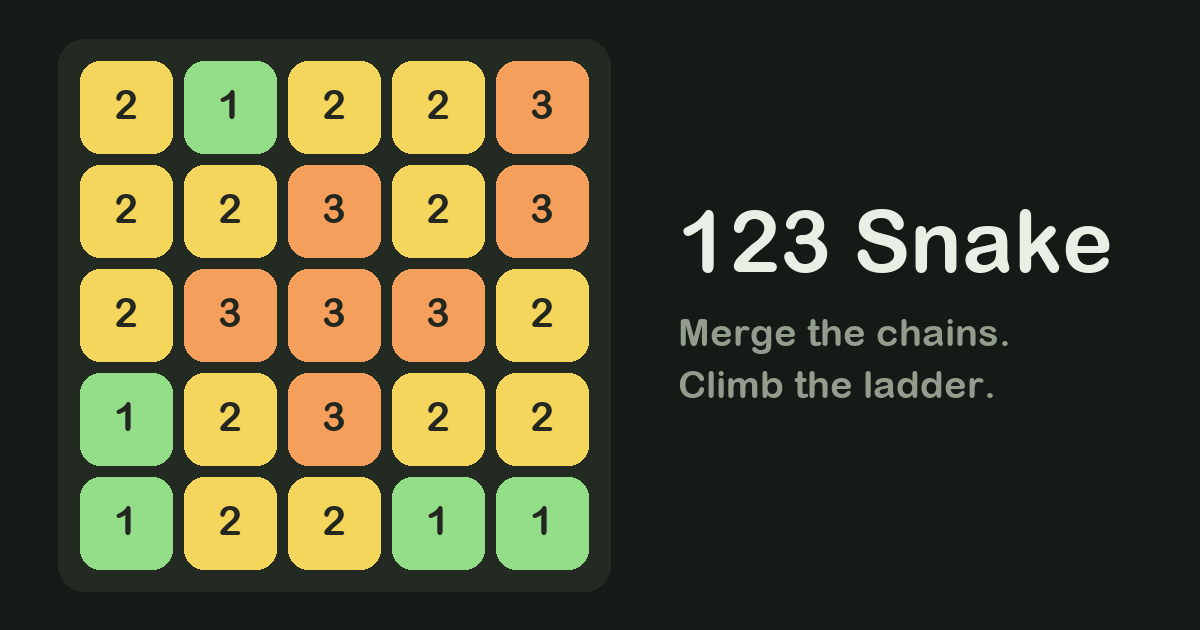
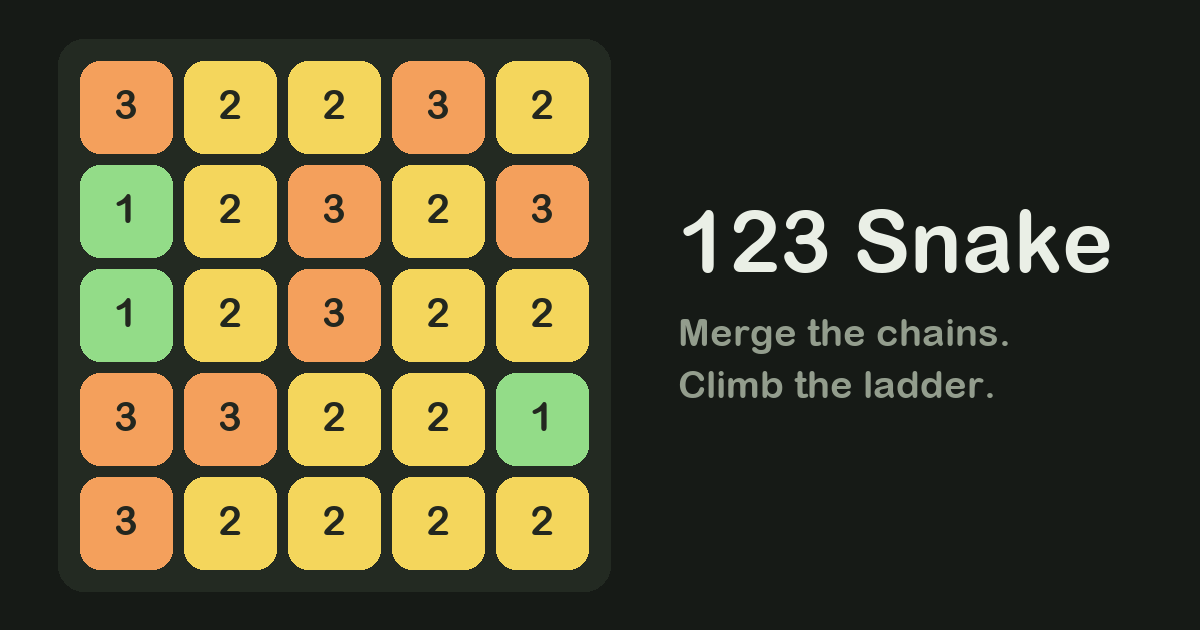
Point site at 123snake.com
Adds docs/CNAME for GitHub Pages and switches SHARE_URL and the og:url/
og:image tags from the github.io address to the custom domain.

diff --git a/docs/index.html b/docs/index.html
@@ -8,8 +8,8 @@
 <meta name="description" content="123 Snake — drag chains of matching numbers and merge them into their sum. A recreation of the 2016 mobile puzzle Integer Snake.">
 <meta property="og:title" content="123 Snake">
 <meta property="og:description" content="Drag chains of matching numbers and merge them into their sum. How high can you score?">
-<meta property="og:url" content="https://willwin4sure.github.io/123snake/">
-<meta property="og:image" content="https://willwin4sure.github.io/123snake/og.png">
+<meta property="og:url" content="https://123snake.com/">
+<meta property="og:image" content="https://123snake.com/og.png">
 <meta property="og:image:width" content="1200">
 <meta property="og:image:height" content="630">
 <meta name="twitter:card" content="summary_large_image">
@@ -400,7 +400,7 @@
 
   var shareBtn=document.getElementById('share');
   var shareTip=document.getElementById('sharetip');
-  var SHARE_URL='https://willwin4sure.github.io/123snake/';
+  var SHARE_URL='https://123snake.com/';
   var tipTimer=null;
   function shareFeedback(msg){
     shareTip.textContent=msg;

diff --git a/123-snake.html b/123-snake.html
@@ -383,7 +383,7 @@
 
   var shareBtn=document.getElementById('share');
   var shareTip=document.getElementById('sharetip');
-  var SHARE_URL='https://willwin4sure.github.io/123snake/';
+  var SHARE_URL='https://123snake.com/';
   var tipTimer=null;
   function shareFeedback(msg){
     shareTip.textContent=msg;

diff --git a/build.py b/build.py
@@ -29,8 +29,8 @@ HEAD = """<!doctype html>
 <meta name="description" content="123 Snake — drag chains of matching numbers and merge them into their sum. A recreation of the 2016 mobile puzzle Integer Snake.">
 <meta property="og:title" content="123 Snake">
 <meta property="og:description" content="Drag chains of matching numbers and merge them into their sum. How high can you score?">
-<meta property="og:url" content="https://willwin4sure.github.io/123snake/">
-<meta property="og:image" content="https://willwin4sure.github.io/123snake/og.png">
+<meta property="og:url" content="https://123snake.com/">
+<meta property="og:image" content="https://123snake.com/og.png">
 <meta property="og:image:width" content="1200">
 <meta property="og:image:height" content="630">
 <meta name="twitter:card" content="summary_large_image">